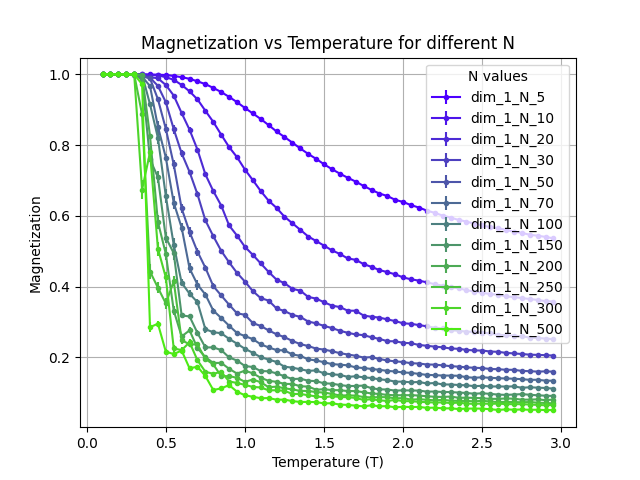
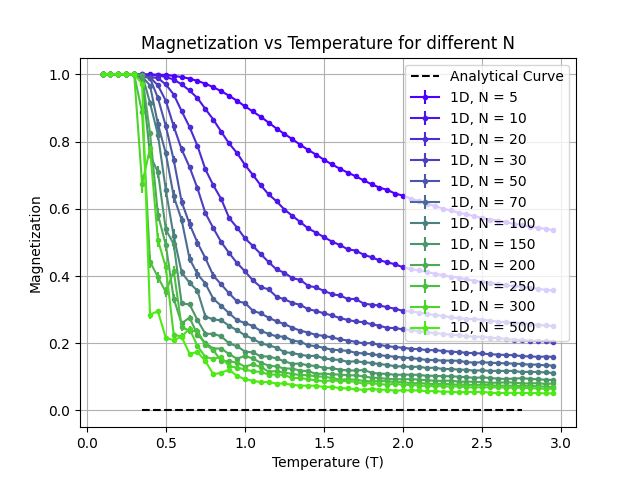
Added analytical curves to convergence plots

diff --git a/analytical_curves.py b/analytical_curves.py
@@ -1,10 +1,13 @@
 import matplotlib.pyplot as plt
 import numpy as np
 
-def analytical_curve_2D(t: np.ndarray) -> np.ndarray:
+def _analytical_curve_1D(t: np.ndarray) -> np.ndarray:
+    # No analytical phase transition in 1D Ising model, magnetization is zero for all T > 0
+    result = np.zeros_like(t, dtype=float)
+    return result
 
-    t = np.asarray(t)
 
+def _analytical_curve_2D(t: np.ndarray) -> np.ndarray:
     # Critical temperature for 2D Ising model
     Tc = 2 / np.log(1 + np.sqrt(2))
 
@@ -15,11 +18,40 @@ def analytical_curve_2D(t: np.ndarray) -> np.ndarray:
     return result
 
 
+def _analytical_curve_3D(t: np.ndarray) -> np.ndarray:
+    # Aproximate data for 3D Ising model from literature
+    Tc = 4.5115
+    beta = 0.326419
+    B = 1.69 
+
+    result = np.zeros_like(t, dtype=float)
+    mask = t < Tc
+    result[mask] = B * np.power(1 - t[mask] / Tc, beta)
+
+    return result
+
+
+def plot_analytical_curve(dim: int, t: np.ndarray) -> None:
+    t = np.asarray(t)
+
+    if dim == 1:
+        f = _analytical_curve_1D
+    elif dim == 2:
+        f = _analytical_curve_2D
+    elif dim == 3:
+        f = _analytical_curve_3D
+    else:
+        raise ValueError(f"Unsupported dimension: {dim}")
+    
+    plt.plot(t, f(t), color='black', linestyle='--', label='Analytical Curve')
+
+
+
 
 if __name__ == "__main__":
 
     temperatures = np.linspace(0.1, 5, 100)
-    magnetizations = [analytical_curve_2D(T) for T in temperatures]
+    magnetizations = [_analytical_curve_2D(T) for T in temperatures]
 
     plt.axvline(x=2 / np.log(1 + np.sqrt(2)), color='r', linestyle='--', label="Critical Temperature")
     plt.xlabel("Temperature")

diff --git a/graphics.py b/graphics.py
@@ -5,7 +5,7 @@ import matplotlib.pyplot as plt
 from PIL import Image, ImageDraw, ImageFont
 
 from operators import magnetization
-from analytical_curves import analytical_curve_2D
+from analytical_curves import plot_analytical_curve
 
 #####################################################################
 # Graphics utilities for visualizations
@@ -212,17 +212,26 @@ def graph_magnetization_convergence(sources, filename = 'magnetization_convergen
 			magnetizations = np.array(f[f"{group_name}/magnetizations"])
 			errors = np.array(f[f"{group_name}/magnetization_errors"])
 
-			plt.errorbar(temperatures, magnetizations, yerr = errors, color = (.3, i / L, 1. - i / L), marker = '.')
+			plt.errorbar(
+				temperatures, 
+				magnetizations, 
+				yerr = errors, 
+				color = (.3, i / L, 1. - i / L), 
+				marker = '.', 
+				label = f"{group_name.split('_')[1]}D, N = {group_name.split('_')[3]}"
+				)
 
 	# Plot analytical curve
-	t = np.linspace(0.1, 5, 100)
-	plt.plot(t, analytical_curve_2D(t), color='black', linestyle='--', label='Analytical')
+	with h5py.File(source, 'r') as f:
+		temps = np.array(f[f"{list(f.keys())[0]}/temperatures"])
+		t = np.linspace(temps[5], temps[-5], 100)
+	plot_analytical_curve(dim = int(sources[0].split('_')[2]), t = t)
 
 	plt.xlabel('Temperature (T)')
 	plt.ylabel('Magnetization')
 	plt.title('Magnetization vs Temperature for different N')
 	plt.grid()
-	plt.legend([f"{list(f.keys())[0]}" for f in [h5py.File(source, 'r') for source in sources]], title='N values')
+	plt.legend()
 	plt.savefig(filename)
 	plt.close()
 
